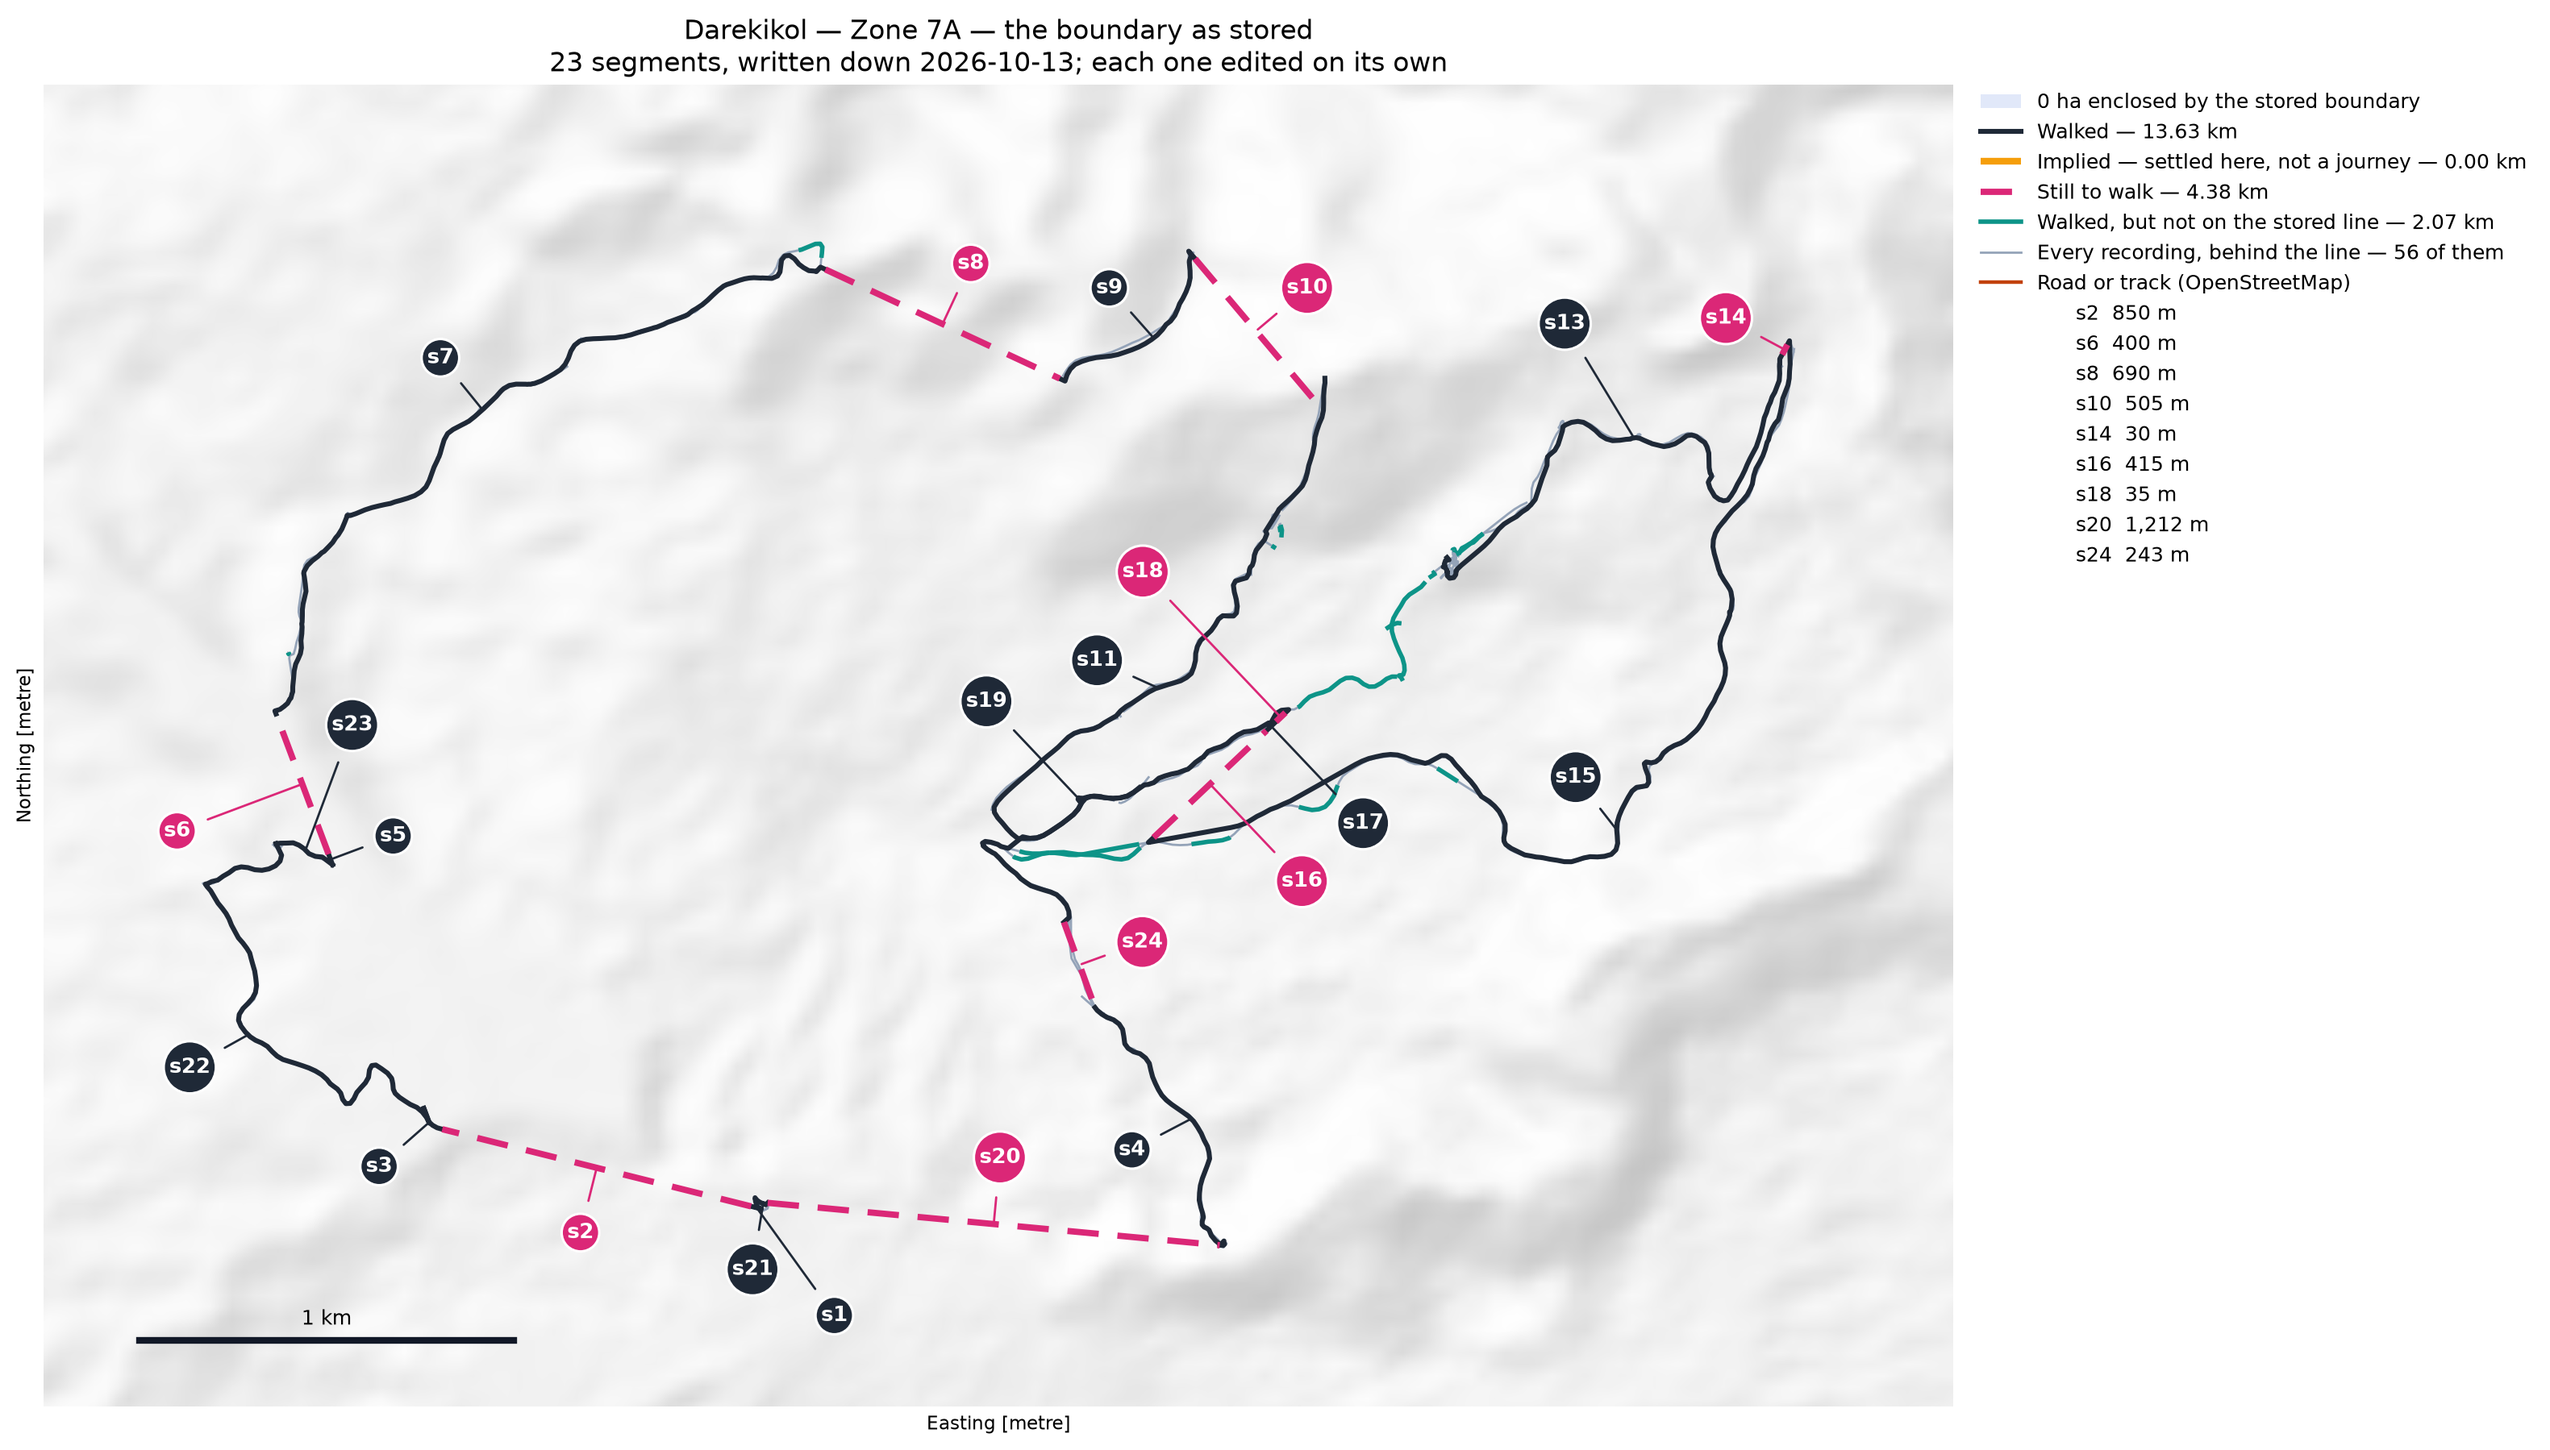
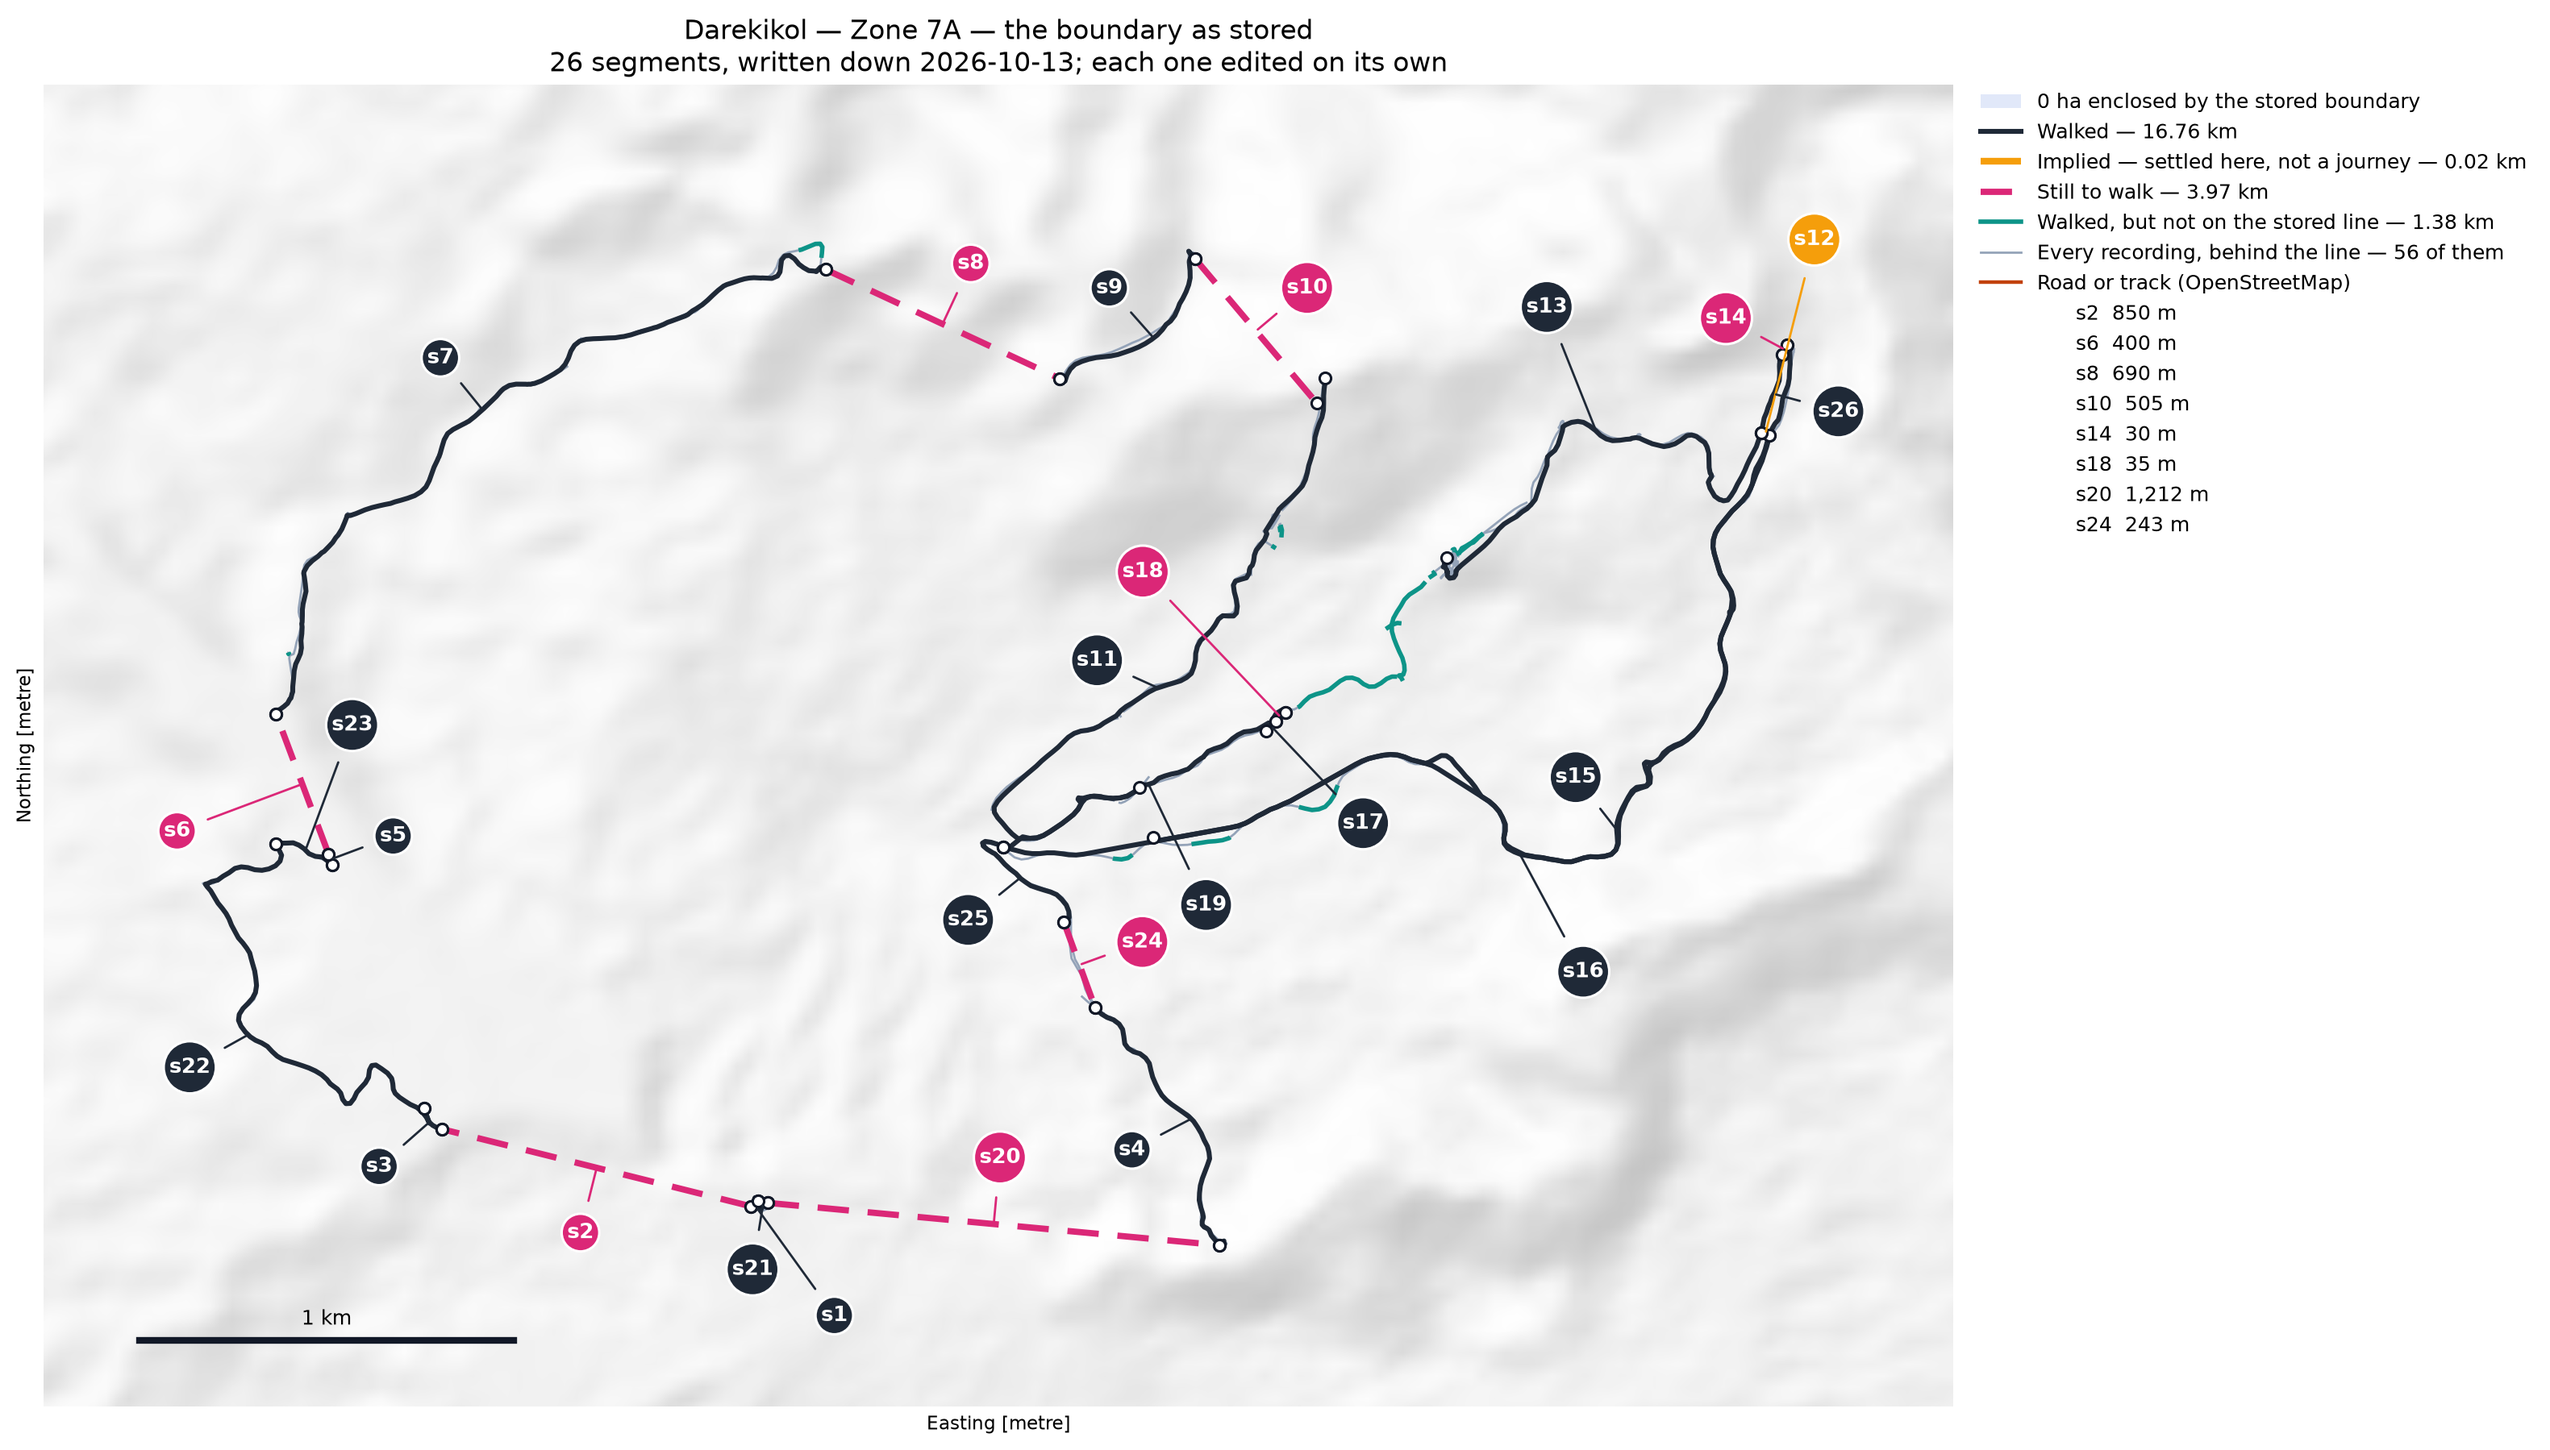
Darekikol: the lobe put on the teal; segment ends marked on the map
s16 was a 415 m drawn line. The recording that actually joins s19 to
s13 runs 3,128 m round the lobe, meeting s19 941 m along it and
coming within 24 m of s13 at 1,421 m along. s16 is now that recording;
the 24 m is implied at the reviewer's direction; s19 and s13 are split
at the junctions so the joins are nodes.

The stored-boundary map now marks every segment end with a white dot,
because the reviewer could not tell which end of a piece was which.

26 segments, 16.76 km walked (from 13.63), 3.97 km to walk, 0.02 km
implied; the ring is open in six places.

Claude-Session: https://claude.ai/code/session_01K6X75MkuiGQ9rmgDZx45vk

diff --git a/scripts/boundary.py b/scripts/boundary.py
@@ -415,6 +415,17 @@ def draw(book: dict, out: Path, near=None):
     # are 60 m apart on Ambunkol and one marker sat on top of the other,
     # so a segment could be seen but not named — which is the whole point
     # of numbering them.
+    # Where each segment begins and ends. Without them a reviewer cannot
+    # see which end of a piece is which, and every instruction about
+    # "the far end" is a guess.
+    ends = [shapely_wkt.loads(s["wkt"]) for s in book["segments"]]
+    xs = [c[:2] for line in ends for c in (line.coords[0], line.coords[-1])]
+    if xs:
+        gpd.GeoSeries([Point(c) for c in xs],
+                      crs=dataio.METRIC_CRS).plot(
+            ax=axis, color="white", edgecolor="#111827", markersize=26,
+            linewidth=1.1, zorder=8)
+
     placed: list = []
     # Shortest first: a small segment has less room to put its marker, so
     # it chooses before the long ones have taken the space.
